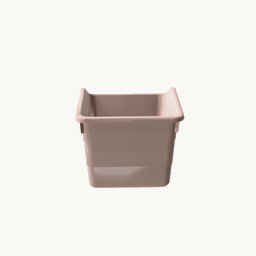
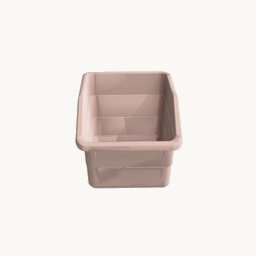
box_pink: rotate view +180deg; cache-bust v21

Changed region(s): [[0.2812, 0.25, 0.7188, 0.75]]

diff --git a/docs/gallery.html b/docs/gallery.html
@@ -222,7 +222,7 @@
         card.onkeydown = (e) => { if (e.key === 'Enter') go(); };
 
         const thumb = obj.thumb
-          ? `<img src="objects/${obj.id}/thumb.png?v=20" alt="${escapeHtml(obj.label)}" loading="lazy" onerror="this.parentElement.innerHTML='<div class=placeholder>&#9645;</div>'">`
+          ? `<img src="objects/${obj.id}/thumb.png?v=21" alt="${escapeHtml(obj.label)}" loading="lazy" onerror="this.parentElement.innerHTML='<div class=placeholder>&#9645;</div>'">`
           : '<div class="placeholder">&#9645;</div>';
         card.innerHTML = `
           <div class="frame">${thumb}</div>

diff --git a/wiki/gallery.html b/wiki/gallery.html
@@ -222,7 +222,7 @@
         card.onkeydown = (e) => { if (e.key === 'Enter') go(); };
 
         const thumb = obj.thumb
-          ? `<img src="objects/${obj.id}/thumb.png?v=20" alt="${escapeHtml(obj.label)}" loading="lazy" onerror="this.parentElement.innerHTML='<div class=placeholder>&#9645;</div>'">`
+          ? `<img src="objects/${obj.id}/thumb.png?v=21" alt="${escapeHtml(obj.label)}" loading="lazy" onerror="this.parentElement.innerHTML='<div class=placeholder>&#9645;</div>'">`
           : '<div class="placeholder">&#9645;</div>';
         card.innerHTML = `
           <div class="frame">${thumb}</div>

diff --git a/wiki/render_thumbnails.py b/wiki/render_thumbnails.py
@@ -102,7 +102,7 @@ VIEW_OVERRIDE = {
     "icecream_scoop": np.array([1.0, 0.65, 0.55]),       # default view rotated 90deg about +z
     "work_lamp": np.array([1.0, 0.65, 0.55]),            # 90deg from default (270 + 180 relative)
     "green_cactus_vase": np.array([0.167, -1.181, 0.55]),  # 335deg from default (45 + 290 relative)
-    "box_pink": np.array([-1.0, -0.65, 0.55]),           # default view rotated 270deg about +z
+    "box_pink": np.array([1.0, 0.65, 0.55]),             # 90deg from default (270 + 180 relative)
     "pink_clock": np.array([-0.953, 0.717, 0.55]),       # 200deg from default (335 + 225 relative)
     "screwdriver": np.array([-0.269, 1.162, 0.55]),      # 160deg from default (45 + 115 relative)
     "potato_mesher": np.array([0.247, 1.167, 0.55]),     # default view rotated 135deg about +z
